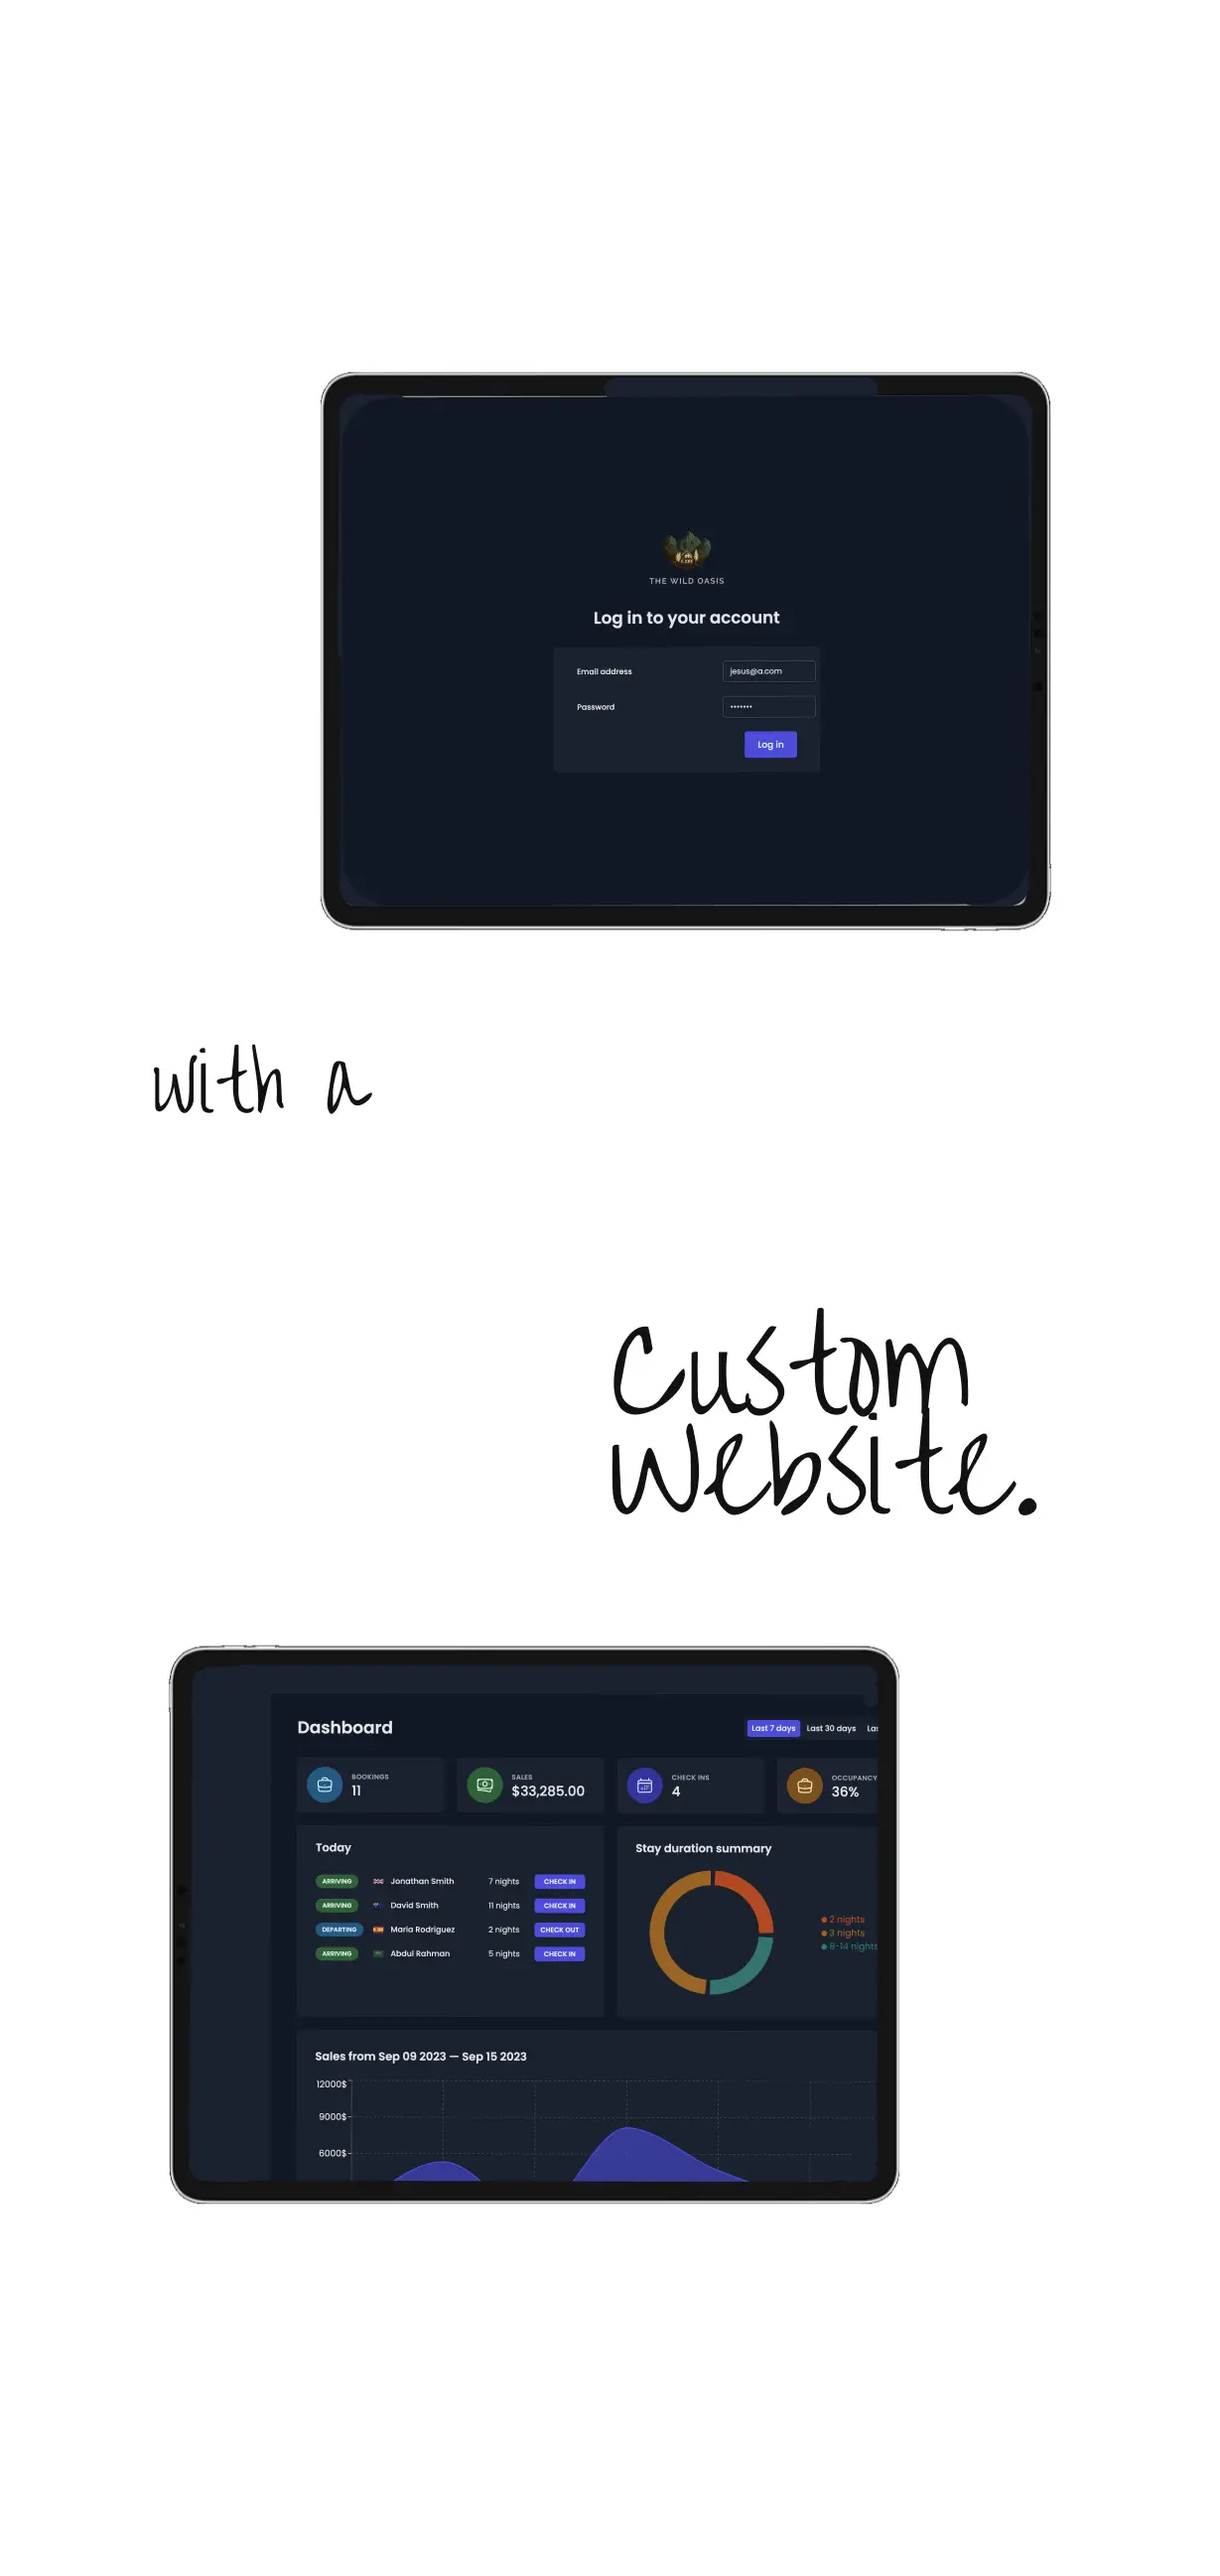
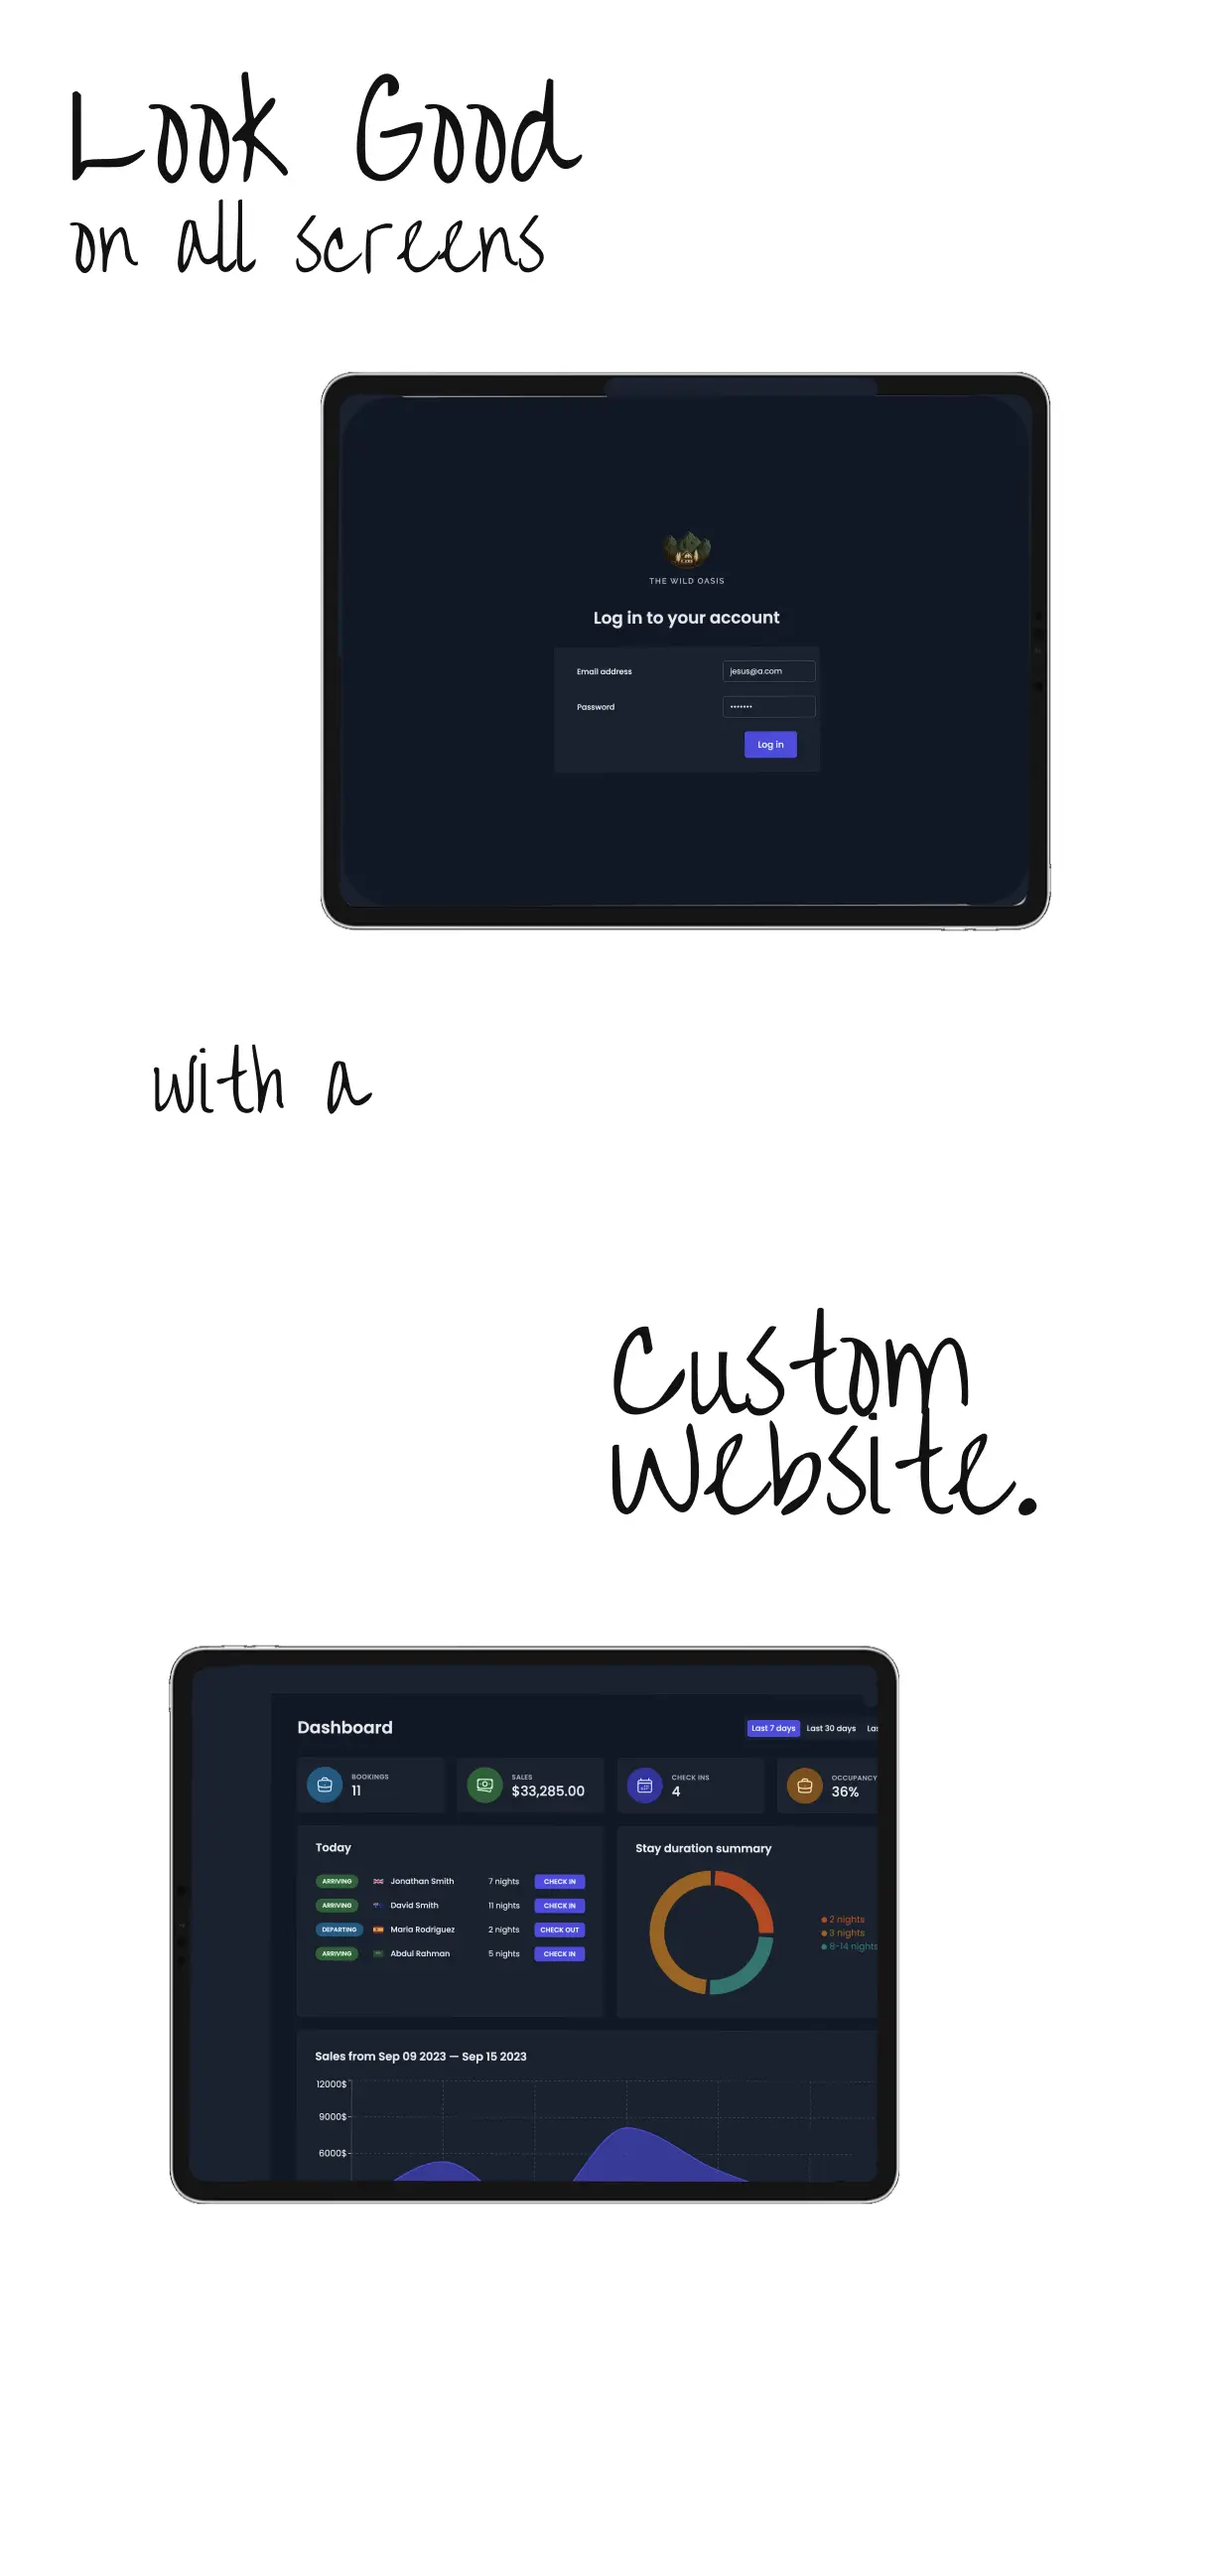
Responsiveness component created + crafting figma design + ui !

Changed region(s): [[0.2474, 0.0312, 0.4638, 0.1249], [0.1237, 0.0312, 0.2164, 0.1249], [0.0618, 0.0312, 0.0928, 0.1249]]

diff --git a/src/components/performance/sub-performances/Responsiveness.jsx b/src/components/performance/sub-performances/Responsiveness.jsx
@@ -30,31 +30,6 @@ const StyledResponsiveness = styled.div`
   min-height: 100vh;
 `;
 
-const Hook = styled.div`
-  // Code logic for positioning all information inside our hook
-  display: flex;
-  flex-direction: column;
-  justify-content: center;
-  padding: var(--padding-small);
-  color: var(--color-white);
-`;
-
-const Title = styled.span`
-  line-height: var(--line-height-small);
-  font-size: var(--font-large);
-  letter-spacing: var(--spacing-title);
-  text-transform: uppercase;
-  overflow: hidden;
-`;
-
-const Subtitle = styled.span`
-  // Code logic for subtitle element
-  font-size: var(--font-xsmall);
-  letter-spacing: var(--spacing-subtitle);
-  line-height: var(--line-height-xsmall);
-  overflow: hidden;
-`;
-
 // ------------------------------
 // Component
 // ------------------------------
@@ -63,14 +38,7 @@ const Subtitle = styled.span`
 function Responsiveness() {
   return (
     <LazyLoad>
-      {/* <!-- Main Container --> */}
-      <StyledResponsiveness>
-        {/* <!-- Hook Container --> */}
-        <Hook>
-          <Title>Look Good </Title>
-          <Subtitle>on all screens</Subtitle>
-        </Hook>
-      </StyledResponsiveness>
+      <StyledResponsiveness />
     </LazyLoad>
   );
 }
